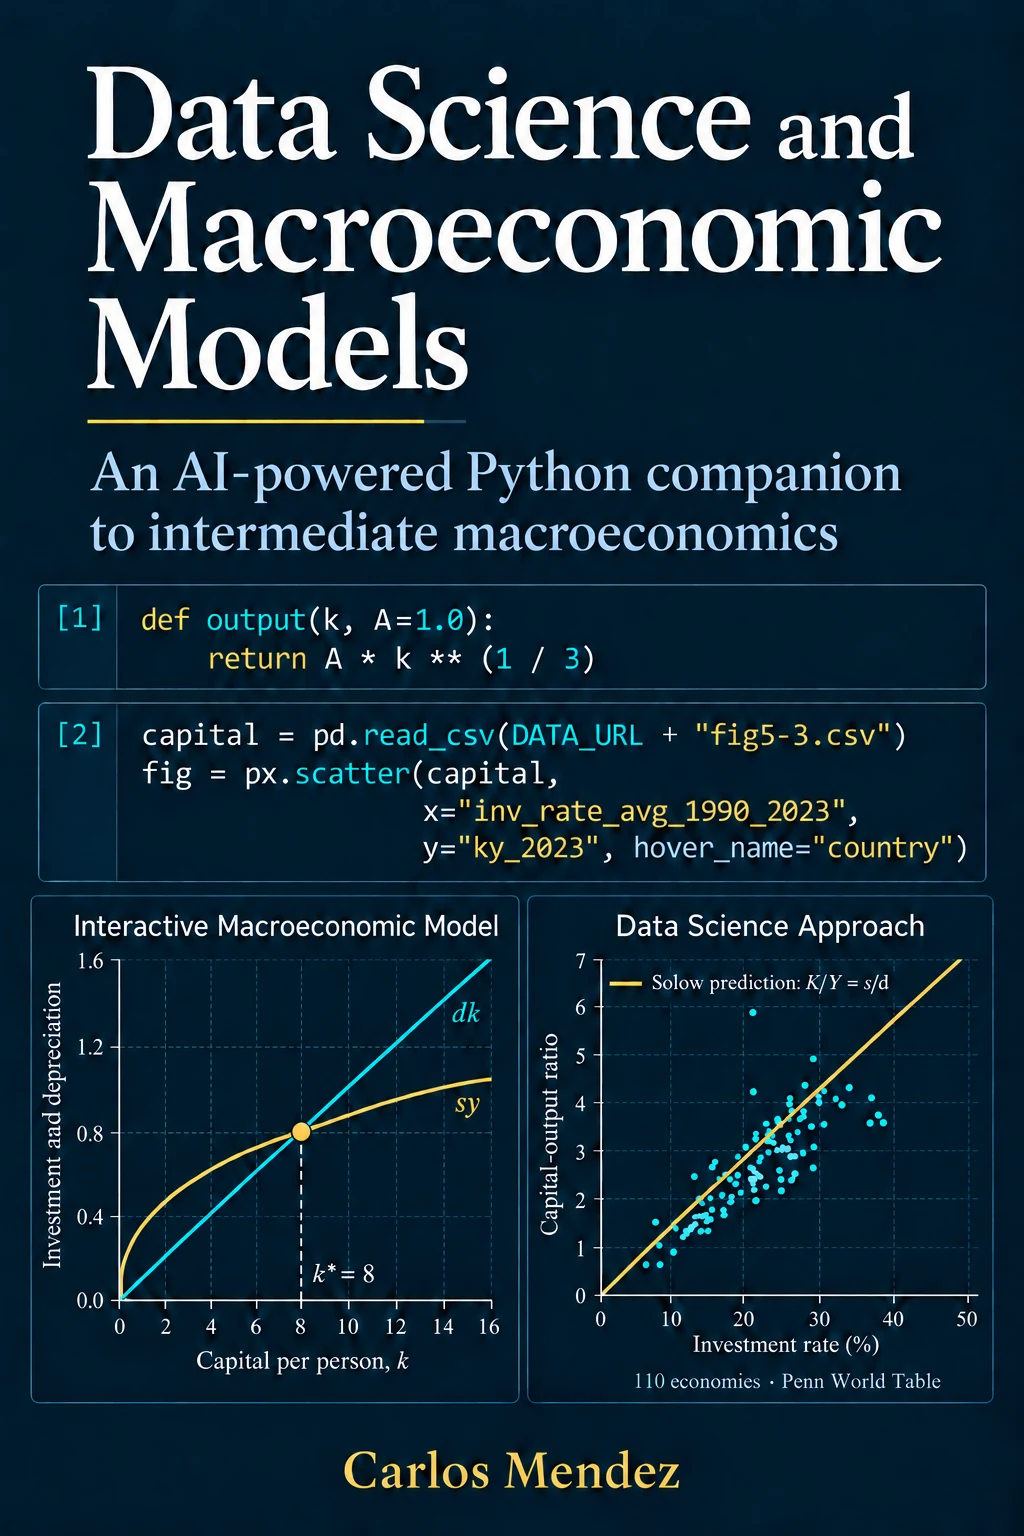
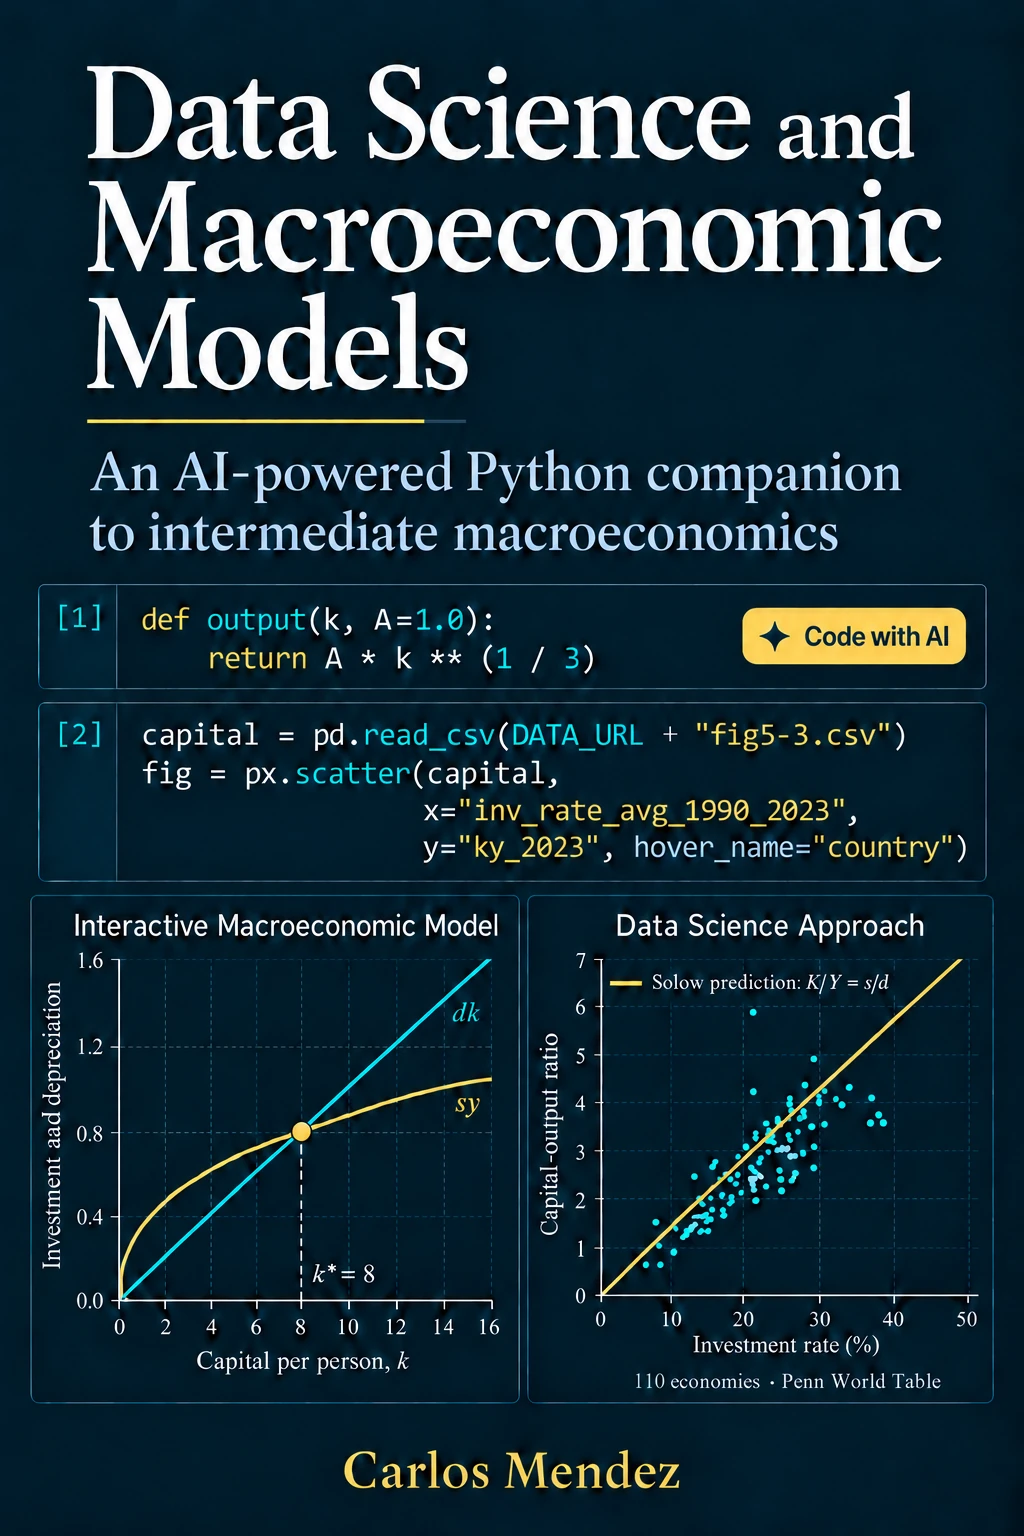
book: apply selected gold Code with AI artwork

diff --git a/README.md b/README.md
@@ -50,7 +50,7 @@
 
 | Path | What it holds |
 |---|---|
-| `images/book-cover-ai-powered-python.webp`, `images/book-cover-ai-powered-python-thumbnail.webp` | Current portrait cover and landscape thumbnail with the AI-powered subtitle, optimized for the web. |
+| `images/book-cover-ai-powered-python.webp`, `images/book-cover-ai-powered-python-thumbnail.webp` | Current portrait cover and landscape thumbnail with the AI-powered subtitle and gold “Code with AI” button, optimized for the web. |
 | `notebooks/` | The chapter notebooks (`.ipynb`, saved with outputs). Open them in Colab. |
 | `src/` | The source of each notebook (`.qmd`). The notebook is generated from it, so edit the source, not the `.ipynb`. |
 | `data/chNN/` | The CSV files each notebook reads, plus a `README.md` with sources and a `build_data.py` that rebuilds the wider files. |
